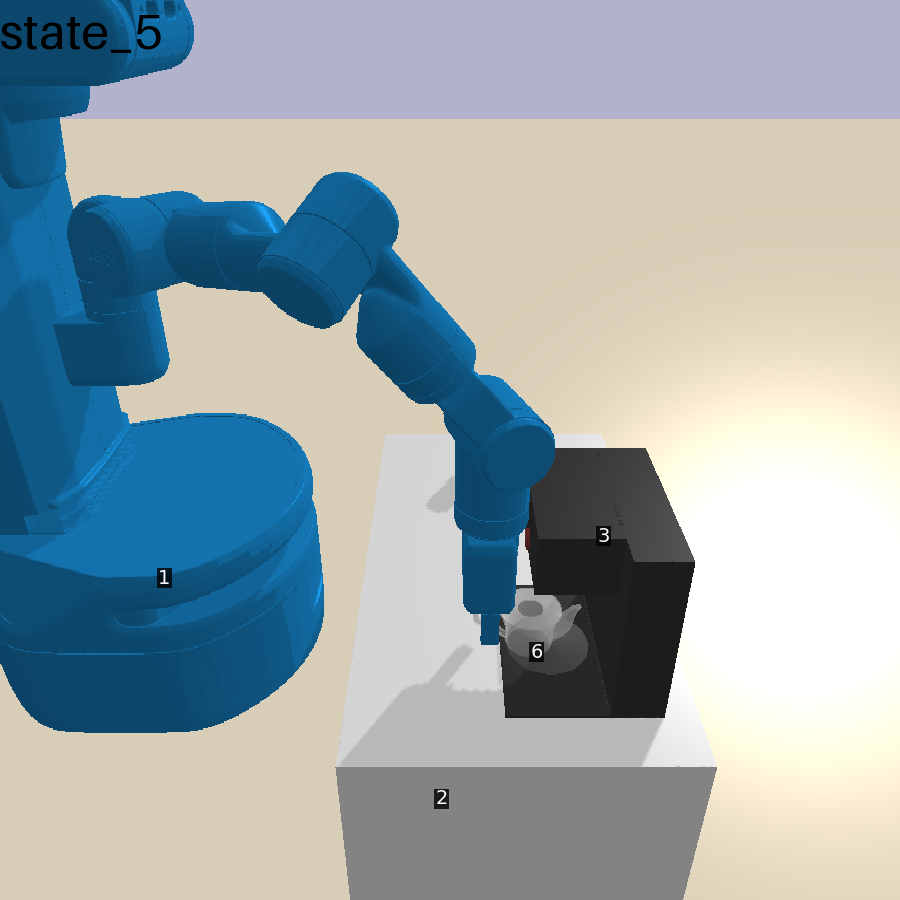
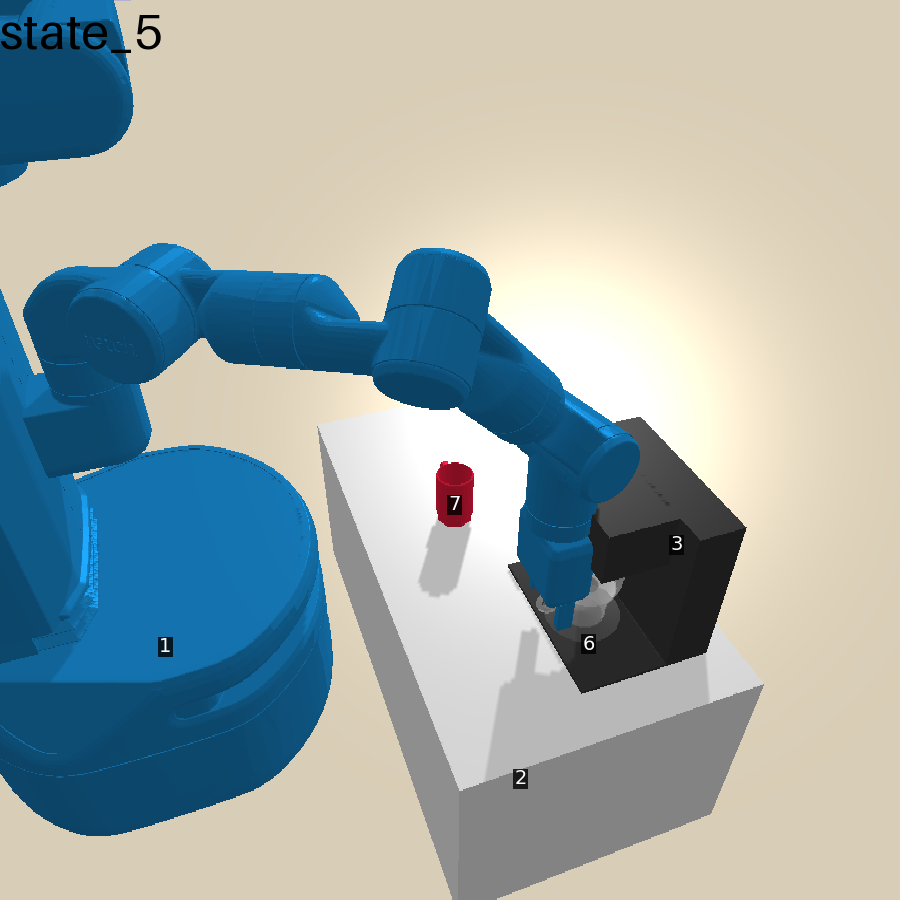
add parameterized annotation but wasn't useful

diff --git a/predicators/ground_truth_models/coffee/options.py b/predicators/ground_truth_models/coffee/options.py
@@ -2,7 +2,7 @@
 
 import logging
 from functools import lru_cache
-from typing import ClassVar, Dict, Sequence, Set, Tuple
+from typing import ClassVar, Dict, Sequence, Set, Tuple, List
 from typing import Type as TypingType
 
 import numpy as np
@@ -18,7 +18,7 @@ from predicators.pybullet_helpers.geometry import Pose
 from predicators.pybullet_helpers.robots import SingleArmPyBulletRobot
 from predicators.settings import CFG
 from predicators.structs import Action, Array, Object, ParameterizedOption, \
-    ParameterizedPolicy, Predicate, State, Type
+    ParameterizedPolicy, Predicate, State, Type, _TypedEntity
 
 
 class CoffeeGroundTruthOptionFactory(GroundTruthOptionFactory):
@@ -115,6 +115,10 @@ class CoffeeGroundTruthOptionFactory(GroundTruthOptionFactory):
             holds = Holding.holds(state, [robot, jug])
             return holds
 
+        def _PickJug_annotation(entities: List[_TypedEntity]) -> str:
+            _, jug = entities
+            return f"Pick up {jug.id_name}."
+
         PickJug = ParameterizedOption(
             "PickJug",
             types=[robot_type, jug_type],
@@ -122,7 +126,8 @@ class CoffeeGroundTruthOptionFactory(GroundTruthOptionFactory):
             policy=cls._create_pick_jug_policy(),
             initiable=_PickJug_initial,
             terminal=_PickJug_terminal,
-            annotation="Pick up the jug."
+            annotation="Pick up the jug.",
+            parameterized_annotation=_PickJug_annotation
         )
 
         # PlaceJugInMachine
@@ -134,6 +139,10 @@ class CoffeeGroundTruthOptionFactory(GroundTruthOptionFactory):
             return not Holding.holds(state, [robot, jug]) and \
                 JugInMachine.holds(state, [jug, machine])
 
+        def _PlaceJug_annotation(entities: List[_TypedEntity]) -> str:
+            _, jug, machine = entities
+            return f"Place {jug.id_name} in {machine.id_name}."
+
         PlaceJugInMachine = ParameterizedOption(
             "PlaceJugInMachine",
             types=[robot_type, jug_type, machine_type],
@@ -141,7 +150,8 @@ class CoffeeGroundTruthOptionFactory(GroundTruthOptionFactory):
             policy=cls._create_place_jug_in_machine_policy(),
             initiable=lambda s, m, o, p: True,
             terminal=_PlaceJugInMachine_terminal,
-            annotation="Place the jug in the machine."
+            annotation="Place the jug in the machine.",
+            parameterized_annotation=_PlaceJug_annotation
         )
 
         # TurnMachineOn
@@ -158,6 +168,10 @@ class CoffeeGroundTruthOptionFactory(GroundTruthOptionFactory):
             _, machine = objects
             return MachineOn.holds(state, [machine])
 
+        def _TurnMachineOn_annotation(entities: List[_TypedEntity]) -> str:
+            _, machine = entities
+            return f"Turn on {machine.id_name}."
+
         TurnMachineOn = ParameterizedOption(
             "TurnMachineOn",
             types=[robot_type, machine_type],
@@ -165,7 +179,8 @@ class CoffeeGroundTruthOptionFactory(GroundTruthOptionFactory):
             policy=cls._create_turn_machine_on_policy(),
             initiable=_TurnMachineOn_initiable,
             terminal=_TurnMachineOn_terminal,
-            annotation="Turn the machine on."
+            annotation="Turn the machine on.",
+            parameterized_annotation=_TurnMachineOn_annotation
         )
 
         # Pour
@@ -181,6 +196,10 @@ class CoffeeGroundTruthOptionFactory(GroundTruthOptionFactory):
             _, _, cup = objects
             return CupFilled.holds(state, [cup])
 
+        def _Pour_annotation(entities: List[_TypedEntity]) -> str:
+            _, jug, cup = entities
+            return f"Pour liquid from {jug.id_name} into {cup.id_name}."
+
         Pour = ParameterizedOption(
             "Pour",
             types=[robot_type, jug_type, cup_type],
@@ -188,7 +207,8 @@ class CoffeeGroundTruthOptionFactory(GroundTruthOptionFactory):
             policy=cls._create_pour_policy(),
             initiable=_Pour_initiable,
             terminal=_Pour_terminal,
-            annotation="Pour liquid from the jug to the cup"
+            annotation="Pour liquid from the jug to the cup",
+            parameterized_annotation=_Pour_annotation
         )
 
         return {
@@ -562,14 +582,18 @@ class PyBulletCoffeeGroundTruthOptionFactory(CoffeeGroundTruthOptionFactory):
         options.remove(TwistJug)
         options.add(TwistJug)
 
-        def _TwistJug_initiable(state: State, memory: Dict,
-                                objects: Sequence[Object],
-                                params: Array) -> bool:
-            del memory, params
-            _, jug = objects
-            machine = state.get_objects(machine_type)[0]
-            return not JugInMachine.holds(state, [jug, machine])
+        # def _TwistJug_initiable(state: State, memory: Dict,
+        #                         objects: Sequence[Object],
+        #                         params: Array) -> bool:
+        #     del memory, params
+        #     _, jug = objects
+        #     machine = state.get_objects(machine_type)[0]
+        #     return not JugInMachine.holds(state, [jug, machine])
 
+
+        def _Twist_parameterized_annotation(entities: List[_TypedEntity]) -> str:
+            _, jug = entities
+            return f"Rotate {jug.id_name} to a desiable orientation."
 
         if CFG.coffee_combined_move_and_twist_policy:
             Twist = utils.LinearChainParameterizedOption(
@@ -578,7 +602,8 @@ class PyBulletCoffeeGroundTruthOptionFactory(CoffeeGroundTruthOptionFactory):
                     cls.move_to_twist_policy,
                     TwistJug
                 ],
-                annotation="Rotate the jug to the desired rotation."
+                annotation="Rotate the jug to the desired rotation.",
+                parameterized_annotation=_Twist_parameterized_annotation
             )
             options.add(Twist)
         return options

diff --git a/predicators/approaches/vlm_online_invention_approach.py b/predicators/approaches/vlm_online_invention_approach.py
@@ -217,7 +217,7 @@ class VlmInventionApproach(NSRTLearningApproach):
         for i, task in enumerate(tasks):
             task.init.state_image.save(f"images/init_state{i}.jpg")
             task.init.labeled_image.save(f"images/init_label{i}.jpg")
-        breakpoint()
+        # breakpoint()
         self.env = env
         self.env_name = env.get_name()
         num_tasks = len(tasks)
@@ -324,7 +324,7 @@ class VlmInventionApproach(NSRTLearningApproach):
                     response_file =\
                         f'./prompts/invent_{self.env_name}_{ite}.response'
                     # f'./prompts/invent_{self.env_name}_{ite}.response'
-                    breakpoint()
+                    # breakpoint()
                     new_proposals = self._get_llm_predictions(
                         prompt, response_file, manual_prompt,
                         regenerate_response)
@@ -432,13 +432,14 @@ class VlmInventionApproach(NSRTLearningApproach):
                 [s for traj in all_trajs for s in traj.states], 
                 sorted(self.base_candidates - self._initial_predicates),
                 env.ns_to_sym_predicates)
-            # breakpoint()
+            breakpoint()
             # When there is successful trajectories, maybe also use the positive
             # data to learn the operators?
             self._learn_nsrts(all_trajs,
                               online_learning_cycle=None,
                               annotations=None,
                               fail_optn_dict=self.fail_optn_dict)
+            breakpoint()
 
             # Add init_nsrts whose option isn't in the current nsrts to
             # Is this sufficient? Or should I add back all the operators?
@@ -680,6 +681,8 @@ class VlmInventionApproach(NSRTLearningApproach):
 
                 # Failed part
                 ppp = [o.simple_str() for o in option_plan[:-1]]
+                # ppp = [o.parent.parameterized_annotation(o.objects) for o in 
+                #         option_plan[:-1]]
                 _, _ = self._execute_succ_plan_and_track_state(
                     state,
                     env,
@@ -778,8 +781,11 @@ class VlmInventionApproach(NSRTLearningApproach):
                                 option_start_state.option_history = [
                                     n.ground_option_str(
                                             use_object_id=CFG.neu_sym_predicate
-                                        ) for n in 
-                                    nsrt_plan[:nsrt_counter]]
+                                        ) for n in nsrt_plan[:nsrt_counter]]
+                                # option_start_state.option_history = [
+                                #     n.option.parameterized_annotation(
+                                #     n.option_objs)
+                                #     for n in nsrt_plan[:nsrt_counter]]
                                 self.state_cache[
                                     state_hash] = option_start_state.copy()
                             # For debugging incomplete options
@@ -807,8 +813,11 @@ class VlmInventionApproach(NSRTLearningApproach):
                                 option_start_state.option_history = [
                                     n.ground_option_str(
                                             use_object_id=CFG.neu_sym_predicate
-                                        ) for n in 
-                                    nsrt_plan[:nsrt_counter]]
+                                        ) for n in nsrt_plan[:nsrt_counter]]
+                                # option_start_state.option_history = [
+                                #     n.option.parameterized_annotation(
+                                #     n.option_objs)
+                                #     for n in nsrt_plan[:nsrt_counter]]
                                 if CFG.neu_sym_predicate:
                                     option_start_state.add_bbox_features()
                                 self.state_cache[

diff --git a/predicators/utils.py b/predicators/utils.py
@@ -1431,7 +1431,9 @@ class LinearChainParameterizedOption(ParameterizedOption):
     def __init__(self,
                  name: str,
                  children: Sequence[ParameterizedOption],
-                 annotation: Optional[str] = None) -> None:
+                 annotation: Optional[str] = None,
+                 parameterized_annotation: Optional[Callable[[_TypedEntity], 
+                                                             str]] = None) -> None:
         assert len(children) > 0
         self._children = children
 
@@ -1450,7 +1452,8 @@ class LinearChainParameterizedOption(ParameterizedOption):
                          policy=self._policy,
                          initiable=self._initiable,
                          terminal=self._terminal,
-                         annotation=annotation)
+                         annotation=annotation,
+                         parameterized_annotation=parameterized_annotation)
 
     def _initiable(self, state: State, memory: Dict, objects: Sequence[Object],
                    params: Array) -> bool:
@@ -1676,6 +1679,10 @@ class RawState(PyBulletState):
             return f"For context, this is right after the robot has "\
             f"successfully executed its [{', '.join(self.option_history[-2:])}]"\
             f" option sequence."
+            # msg = f"For context, this is right after the robot has "\
+            # f"successfully executed its action sequence: "\
+            # f"{self.option_history[-2:]}"
+            return msg
 
     def add_bbox_features(self) -> None:
         """Add the features about the bounding box to the objects."""

diff --git a/predicators/envs/pybullet_coffee.py b/predicators/envs/pybullet_coffee.py
@@ -122,8 +122,8 @@ class PyBulletCoffeeEnv(PyBulletEnv, CoffeeEnv):
     # _camera_target: ClassVar[Pose3D] = (0.75, 1.35, 0.42)
     # Yichao
     # _camera_yaw: ClassVar[float] = -70
-    _camera_yaw: ClassVar[float] = 90
-    _camera_pitch: ClassVar[float] = -30 # lower
+    _camera_yaw: ClassVar[float] = 70
+    _camera_pitch: ClassVar[float] = -38 # lower
     _camera_target: ClassVar[Pose3D] = (0.75, 1.25, 0.42)
 
     # Types
@@ -698,7 +698,8 @@ class PyBulletCoffeeEnv(PyBulletEnv, CoffeeEnv):
         #                         rgbaColor=[0.3, 0.3, 0.3, 1], 
         #                         physicsClientId=physics_client_id)
         # Make the jug transparent
-        p.changeVisualShape(jug_id, 0, rgbaColor=[1,1,1,0.9], 
+        # p.changeVisualShape(jug_id, 0, rgbaColor=[1,1,1,0.9], 
+        p.changeVisualShape(jug_id, 0, rgbaColor=[1,1,1,1], 
                                     physicsClientId=physics_client_id)
         # remove the lid
         p.changeVisualShape(jug_id, 1, rgbaColor=[1,1,1,0], 

diff --git a/predicators/structs.py b/predicators/structs.py
@@ -707,6 +707,7 @@ class ParameterizedOption:
     # self.types. The parameters will be contained in params_space.
     terminal: ParameterizedTerminal = field(repr=False)
     annotation: Optional[str] = None
+    parameterized_annotation: Optional[Callable[[_TypedEntity], str]] = None
 
     @cached_property
     def _hash(self) -> int:
